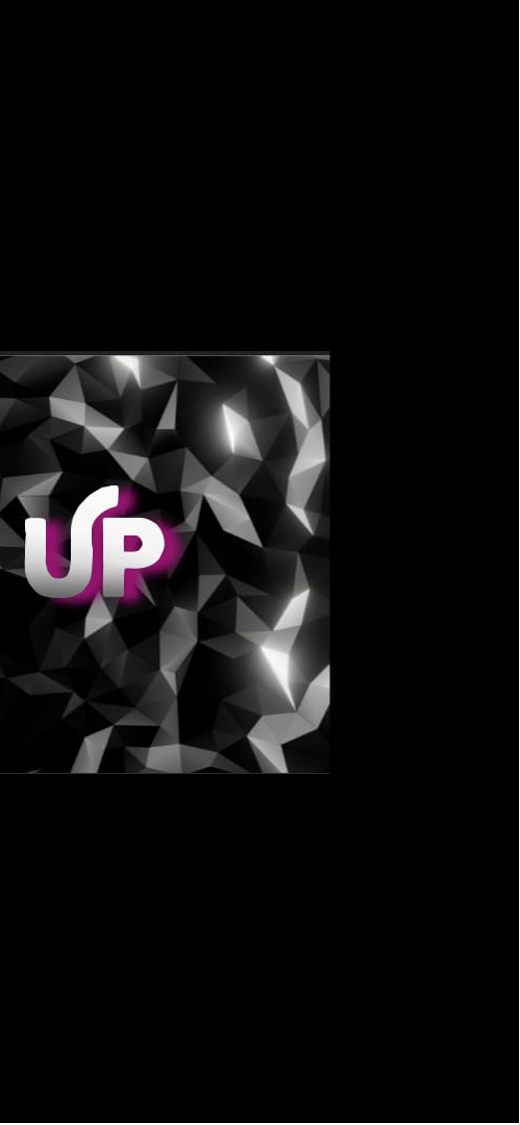
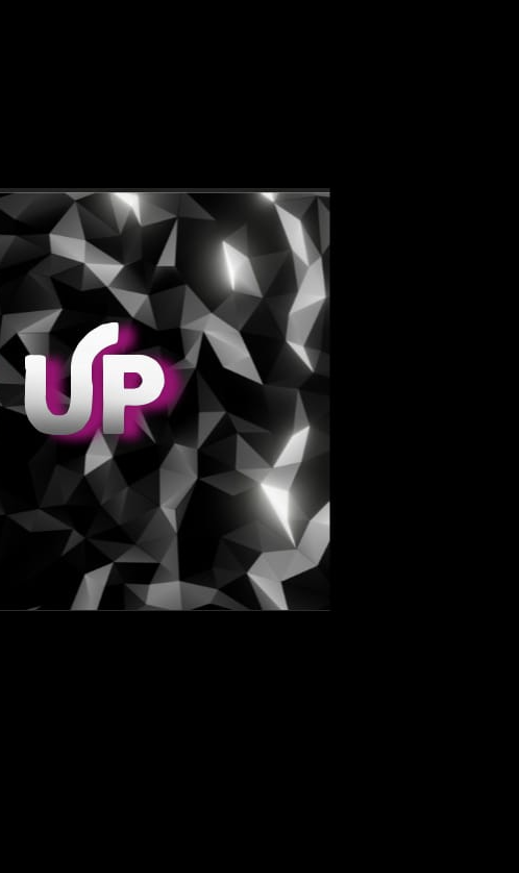
Added Future Features Box

diff --git a/Style.css b/Style.css
@@ -292,9 +292,9 @@ body{
       align-items: center;
       box-sizing: border-box;
       width: 700px;
-      height: 600px;
+      height: 700px;
       padding: 20px;
-      background: linear-gradient(135deg, #381932, #080006, #aaa6aa, #4f0255);
+      background: linear-gradient(135deg, #381932, #080006, #aaa6aa, #300119);
       border: 5px solid #ffffff;
       border-radius: 10px;
     
@@ -306,7 +306,17 @@ body{
     .feature:hover {
       transform: translateY(-10px) rotateY(180deg); /* add the rotateY transform on hover */
     }
+    
     .feature h1 {
+      background: linear-gradient(45deg, #610120, #050002, #cccccc);
+      background-size: 100% 100%;
+      border-radius: 50px;
+      border: 5px solid #f5f4f4;   
+      color: #fff;
+      font-weight: 700;
+      padding: 25px 50px;
+      box-shadow: 0 5px 10px rgba(0, 0, 0, 0.2);
+      text-align: center;
       font: bold 2.5em "Fira Sans", serif;
       align-self: center;
       text-align: center;
@@ -336,7 +346,7 @@ body{
       font: italic 1.4em "Fira Sans", serif;
       color: #fcfcfc;
       font-weight: 400;
-      text-shadow: 0 0 2px #12010c, 0 0 2px #fdd1f3, 0 0 2px #000;
+      text-shadow: 0 0 2px #12010c, 0 0 2px #5f0723, 0 0 2px #45021a;
       margin-bottom: 15px;
       margin-top: 15px;
       /* Set the heading color to white */

diff --git a/quesGen.css b/quesGen.css
@@ -133,12 +133,12 @@ header {
 .parallax-bg-left{
     left:0;
     width:50%;
-    background-image: url('img/audiorise\(1\).png')
+    background-image: url('img/Shinybg\(1\).png')
 }
 .parallax-bg-right{
     right: 0;
     width: 50%;
-    background-image: url('img/Audiorise\(2\).png')
+    background-image: url('img/Shinybg\(2\).png')
 }
 .box {
     display: flex;
